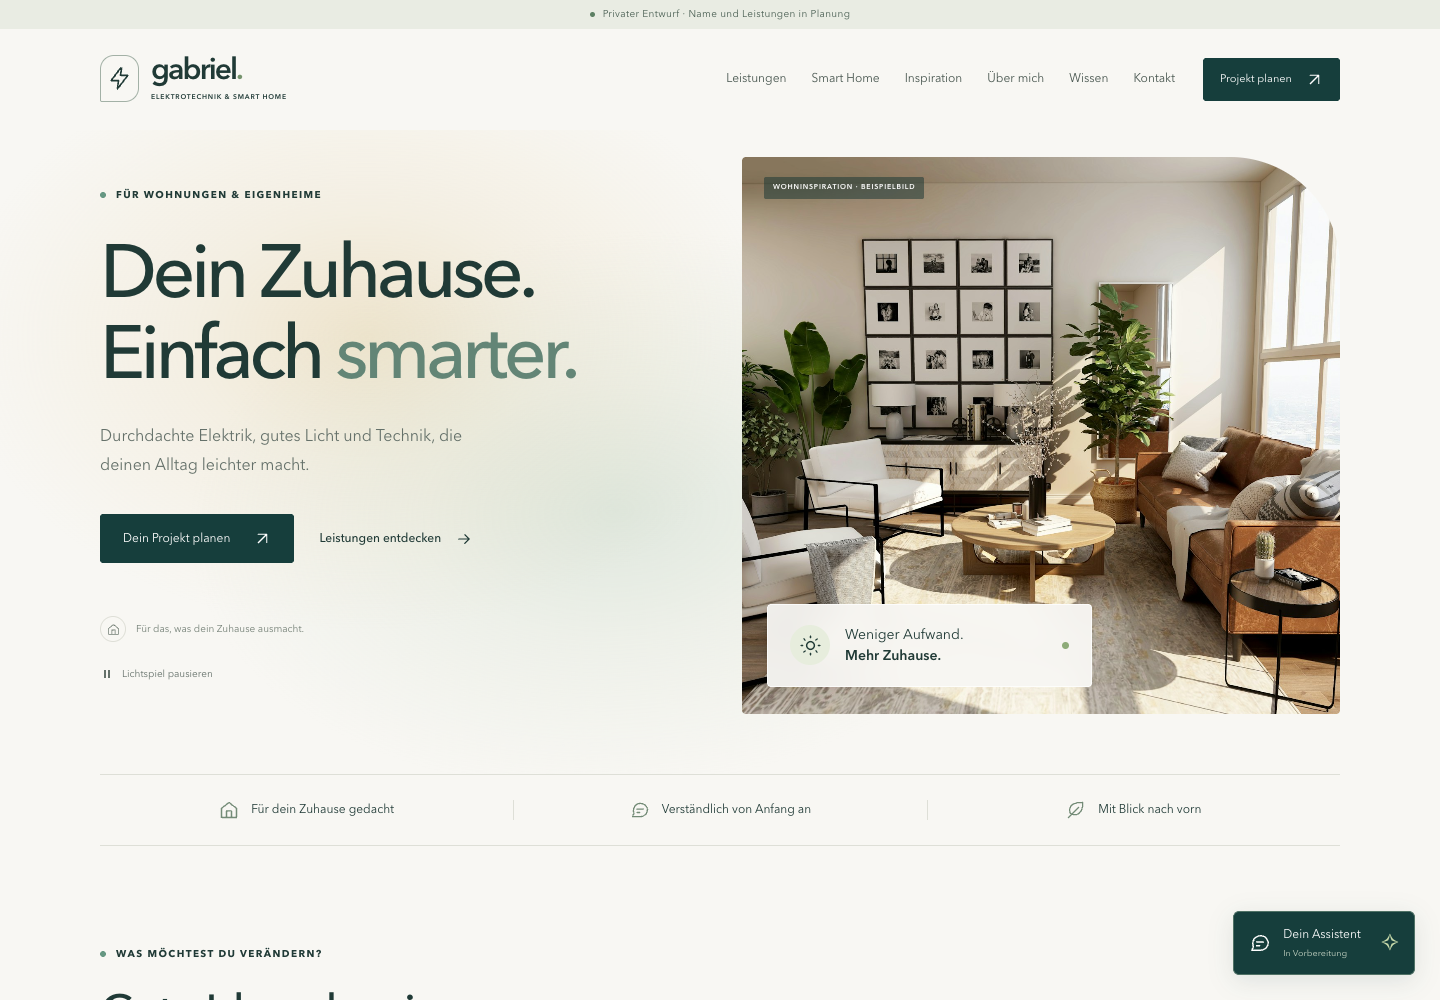
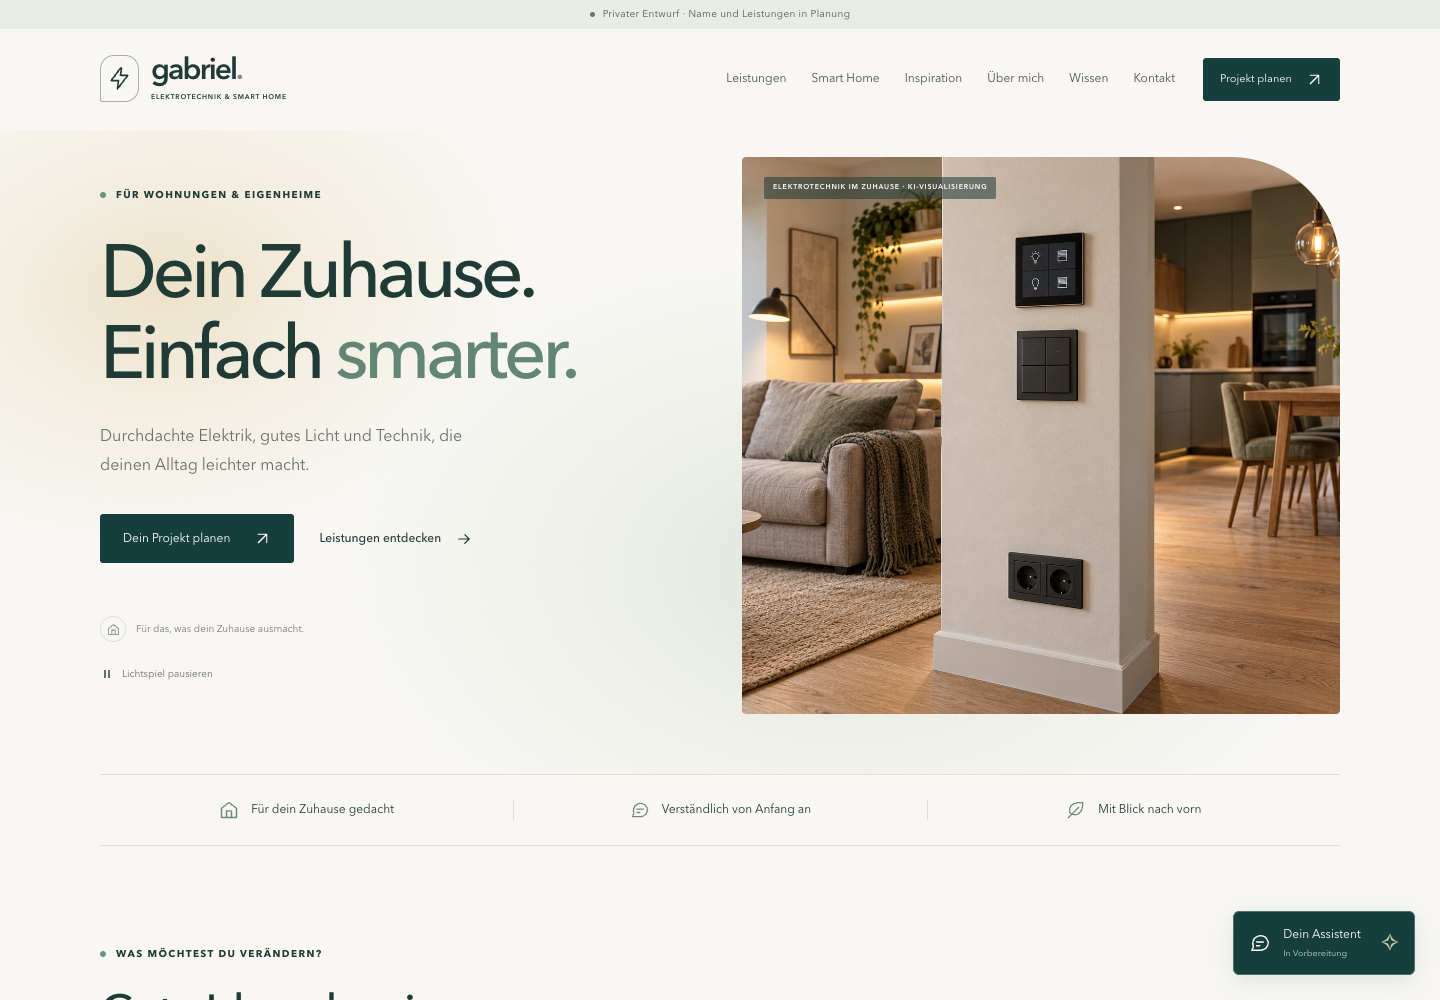
Startbild mit sichtbarer Elektrotechnik ersetzen und Licht leicht verstaerken

diff --git a/public/assets/smart-demos.css b/public/assets/smart-demos.css
@@ -7,11 +7,11 @@
     position: absolute;
     width: min(950px, 140vw);
     height: 620px;
-    background: radial-gradient(ellipse closest-side at 42% 46%, #d9bc7b52 0%, #e2cc9c30 43%, transparent 100%);
+    background: radial-gradient(ellipse closest-side at 42% 46%, #d9bc7b5c 0%, #e2cc9c36 43%, transparent 100%);
     top: -110px;
     left: -160px;
   }
-  .hero-glow::after { top: 65px; left: 12%; background: radial-gradient(ellipse closest-side at 48% 52%, #9bbca345 0%, #bbcfb82b 46%, transparent 100%); }
+  .hero-glow::after { top: 65px; left: 12%; background: radial-gradient(ellipse closest-side at 48% 52%, #9bbca34d 0%, #bbcfb830 46%, transparent 100%); }
   html.js .hero-glow::before { animation: hero-light-drift 16s ease-in-out infinite alternate; }
   html.js .hero-glow::after { animation: hero-light-drift 22s ease-in-out -8s infinite alternate-reverse; }
   .home-hero[data-ambience-paused="true"] .hero-glow::before,

diff --git a/docs/PROJEKTSTAND.md b/docs/PROJEKTSTAND.md
@@ -1,13 +1,22 @@
 # Projektstand
 
-Stand: 30.10.2026 · Lichtspiel sichtbar verstärkt
+Stand: 30.10.2026 · Neues Startbild mit sichtbarer Elektrotechnik
+
+## Aktuelle Überarbeitung
+
+- Gabriels Wunsch: Lichtstärke nur noch minimal anheben und das allgemeine Wohnraumfoto durch ein modernes Motiv mit erkennbarer Elektrotechnik ersetzen.
+- Neues Startbild mit dem eingebauten Imagegen-Werkzeug erstellt: Schuko-Doppelsteckdose, vierteiliger Wandtaster und Bedienpanel stehen gut sichtbar im Mittelpunkt. Eingeschaltete Leuchten sowie Küche mit Backofen ergänzen die Wohnatmosphäre. Datei: `public/assets/zuhause-elektrotechnik.jpg`; Originalpfad und vollständiger Prompt in [STARTBILD.md](STARTBILD.md).
+- Bild, Alternativtext, Preload und Bildnachweise angepasst; als KI-Visualisierung gekennzeichnet. Der bisherige Textkasten über dem Bild wurde entfernt, damit er keine Steckdosen verdeckt. Das alte Foto bleibt als ungenutzte Datei erhalten.
+- Nur die Intensität der beiden Hintergrund-Lichtflächen noch leicht angehoben. Tempo, Bewegungsweg und Pausenfunktionen bleiben erhalten.
+- Build und 509 interne Verweise erfolgreich. Vier passende Browserprüfungen bestanden: alle Seiten erreichbar, mobiles Layout und Navigation, Lichtspiel/Pause/reduzierte Bewegung sowie Darstellung ohne JavaScript. Desktop und Mobil visuell geprüft; alle drei elektrischen Bedienelemente bleiben im Bildausschnitt sichtbar.
+- Aktueller Arbeitsbranch: `feat/startbild-elektrotechnik`, aufbauend auf `2b06c13`. Nächster Schritt: das neue Bild und die leicht erhöhte Lichtstärke mit Gabriel ansehen.
 
 ## Aktuelle Feinabstimmung
 
 - Gabriels Wunsch: etwas mehr sichtbare Bewegung im Hintergrund. Das Startseiten-Lichtspiel hat jetzt deutlichere warme und salbeigrüne Lichtflächen, einen größeren Bewegungsweg sowie eine leichte Drehung und Größenänderung. Die Dauer je Richtung beträgt 16 und 22 Sekunden. Die Bewegung bleibt auf den Einstieg begrenzt.
 - Pausentaste, automatische Pause außerhalb des sichtbaren Bereichs und bei verborgenem Tab sowie reduzierte Bewegung bleiben erhalten.
 - Build und 509 interne Verweise sowie die beiden Lichtspiel-Browserprüfungen erfolgreich. Laufende Bewegung auf Desktop geprüft, Desktop und Mobil visuell kontrolliert; bei 320, 375 und 768 Pixeln kein horizontales Überlaufen. Startseiten-Vorschau aktualisiert.
-- Aktueller Arbeitsbranch: `style/lichtspiel-sichtbarer`, aufbauend auf `3cba83c`. Nächster Schritt: die Stärke und Bewegung des Lichtspiels mit Gabriel ansehen.
+- Mit `2b06c13` auf `style/lichtspiel-sichtbarer` gesichert, aufbauend auf `3cba83c`.
 
 ## Jalousien-Demo und erstes Lichtspiel
 
@@ -72,7 +81,7 @@ Die Website bleibt ein lokaler privater Entwurf. Veröffentlichung, kostenpflich
 - Über mich, Kontakt, Entwurfsseiten für Impressum und Datenschutz sowie Bildnachweise.
 - Assistenteneinstieg als ausdrücklich gekennzeichnete Vorschau, auf Mobilgeräten als kleines Symbol.
 - Keine großen wiederkehrenden Abschlussblöcke mit Projektaufruf. Planerzugänge oben rechts, auf der Startseite und auf der Kontaktseite bleiben erhalten. Auf der Inspirationsseite ist die Übernahme Bestandteil des Beraterergebnisses.
-- Alle zwölf KI-Motive sind Visualisierungen; sie weisen weder Kundenprojekte noch konkrete Produktkompatibilität nach.
+- Alle 13 KI-Motive sind Visualisierungen; sie weisen weder Kundenprojekte noch konkrete Produktkompatibilität nach.
 
 ## Technischer Einstieg
 
@@ -106,7 +115,7 @@ Fragen und Verhalten stehen in [INSPIRATIONSBERATER.md](INSPIRATIONSBERATER.md).
 
 ## Nächster gemeinsamer Schritt
 
-Beim Wiedereinstieg die Stärke und Bewegung des verstärkten Startseiten-Lichtspiels mit Gabriel ansehen und sein Feedback aufnehmen. Auch Jalousien-Demo und die sechs erweiterten Leistungsseiten können weiter verfeinert werden. Die reduzierte Lichtauswahl und die Abenddämmerung sind umgesetzt. Bei weiterer Smart-Home-Arbeit an `src/smart-home.mjs`, `src/room.mjs` und `src/shading.mjs` anknüpfen. Inspiration und Berater können bei Bedarf weiter verfeinert werden.
+Beim Wiedereinstieg das neue Startbild mit sichtbarer Elektrotechnik und die leicht erhöhte Lichtstärke mit Gabriel ansehen und sein Feedback aufnehmen. Auch Jalousien-Demo und die sechs erweiterten Leistungsseiten können weiter verfeinert werden. Die reduzierte Lichtauswahl und die Abenddämmerung sind umgesetzt. Bei weiterer Smart-Home-Arbeit an `src/smart-home.mjs`, `src/room.mjs` und `src/shading.mjs` anknüpfen. Inspiration und Berater können bei Bedarf weiter verfeinert werden.
 
 Gabriels ergänzende Idee ist festgehalten: Wiederkehrende Fragen aus dem späteren echten Chatbot sollen als „Top-Fragen“ mit kurzen Antworten beim Berater ergänzt werden. Fehlt für die Beratung regelmäßig eine Angabe, kann auch der Fragenablauf gezielt erweitert werden. Es werden dafür jetzt keine häufigen Kundenfragen behauptet. Die spätere Auswertung und Übernahme sind noch nicht implementiert.
 
@@ -116,7 +125,7 @@ Danach bleiben Firmenname, Einsatzgebiet, tatsächlicher Leistungsumfang, echte 
 
 Privates Repository: https://github.com/Gabrielysf31/meine-website
 
-Die erste Website-Umsetzung liegt auf `feat/erster-website-entwurf` bis Commit `b73bed2`. Die konkrete Konzeptausarbeitung wurde auf `docs/inspirationsberater-konzept` mit Commit `82b6863` gesichert. Inspiration und Berater wurden mit Commit `a33994a` auf `feat/inspiration-berater` gesichert. Darauf bauen Smart Home (`8ddc091`), Lichtsimulation (`a7aeeec`), Tageslicht (`e6a6a90`), die zwischenzeitliche rote Lichtfarbe (`630896b`) und die endgültige reduzierte Auswahl (`e4ad57b`) auf. Der Abschluss vom 29.10. liegt mit Commit `066b7fb` auf `feat/smart-home-ruhige-lichtstimmungen`. Die Abenddämmerung wurde mit `9108999` auf `fix/smart-home-abenddaemmerung` gesichert. Die ausgearbeiteten Leistungsseiten liegen mit `75dc264` auf `feat/leistungen-ausfuehrlich`. Jalousien-Demo und erstes Lichtspiel sind mit `3cba83c` auf `feat/jalousien-demo-lichtspiel` gesichert. Der aktuelle, vollständige Arbeitsstand mit verstärktem Lichtspiel liegt auf `style/lichtspiel-sichtbarer`. `main` enthält weiterhin die ursprüngliche Repository-Initialisierung; es wurde nichts in `main` integriert oder als Website veröffentlicht.
+Die erste Website-Umsetzung liegt auf `feat/erster-website-entwurf` bis Commit `b73bed2`. Die konkrete Konzeptausarbeitung wurde auf `docs/inspirationsberater-konzept` mit Commit `82b6863` gesichert. Inspiration und Berater wurden mit Commit `a33994a` auf `feat/inspiration-berater` gesichert. Darauf bauen Smart Home (`8ddc091`), Lichtsimulation (`a7aeeec`), Tageslicht (`e6a6a90`), die zwischenzeitliche rote Lichtfarbe (`630896b`) und die endgültige reduzierte Auswahl (`e4ad57b`) auf. Der Abschluss vom 29.10. liegt mit Commit `066b7fb` auf `feat/smart-home-ruhige-lichtstimmungen`. Die Abenddämmerung wurde mit `9108999` auf `fix/smart-home-abenddaemmerung` gesichert. Die ausgearbeiteten Leistungsseiten liegen mit `75dc264` auf `feat/leistungen-ausfuehrlich`. Jalousien-Demo und erstes Lichtspiel sind mit `3cba83c` auf `feat/jalousien-demo-lichtspiel` gesichert. Das verstärkte Lichtspiel ist mit `2b06c13` auf `style/lichtspiel-sichtbarer` gesichert. Der aktuelle, vollständige Arbeitsstand mit neuem Startbild und nochmals leicht angehobener Lichtstärke liegt auf `feat/startbild-elektrotechnik`. `main` enthält weiterhin die ursprüngliche Repository-Initialisierung; es wurde nichts in `main` integriert oder als Website veröffentlicht.
 
 Die von Gabriel geöffnete lokale Vorschau unter `http://localhost:4173` wurde wiederverwendet und während der Umsetzung aktualisiert. Falls sie nicht läuft: `npm run dev`. Nach weiteren Änderungen `npm run build` ausführen und den Browser neu laden.
 

diff --git a/docs/STARTBILD.md b/docs/STARTBILD.md
@@ -1,0 +1,27 @@
+# Startbild: Elektrotechnik im Zuhause
+
+Erstellt am 30.10.2026 mit dem eingebauten Imagegen-Werkzeug, ohne CLI/API-Fallback.
+
+Gabriels Wunsch: Die moderne Wohnatmosphäre beibehalten und im Startbild klar sichtbare Elektrotechnik zeigen. Der bisherige Wohnraum wirkte zu allgemein. Zusätzlich wurde die Hintergrund-Lichtstärke geringfügig angehoben.
+
+## Dateien und Einbau
+
+- Website: `public/assets/zuhause-elektrotechnik.jpg`, 1448 × 1086 Pixel, als JPEG komprimiert.
+- Original: `/Users/gabrielyousef/.codex/generated_images/01a18c97-9c4b-73d1-b7fd-299f35ae48a2/exec-e7f73a05-667d-4653-8fe1-67c7e773e34b.png`. Das Original bleibt erhalten.
+- Verwendung: Startseite, inklusive passendem Preload, Alternativtext und Kennzeichnung „Elektrotechnik im Zuhause · KI-Visualisierung“.
+- Sichtbare Motive: Schuko-Doppelsteckdose, vierteiliger Wandtaster, kompaktes Bedienpanel, eingeschaltete Leuchten, angrenzende Küche mit Backofen.
+- Der bisherige Textkasten über dem Foto wurde entfernt, damit die Steckdosen im unteren Bildbereich auch auf Mobil sichtbar bleiben.
+- Das frühere Startbild `public/assets/wohnraum.jpg` bleibt als ungenutzte Datei erhalten.
+- Illustratives Motiv, kein Kundenprojekt oder Nachweis einer konkreten Produktkompatibilität.
+
+## Vollständiger Prompt
+
+```text
+Use case: photorealistic-natural.
+Asset type: homepage hero photograph for a German residential electrician and smart home website, landscape 4:3 composition, high quality.
+Primary request: an attractive contemporary lived-in home in which installed electrical technology is clearly recognizable even at website thumbnail size. This must feel like a beautiful home with thoughtfully installed electrics.
+Scene: calm modern European living and dining room, warm oak floor, cream plaster, muted sage fabrics, comfortable sofa and simple timber console, daylight with visibly switched-on pendant and indirect LED shelf lighting. A compact kitchen in the background may show a real built-in oven.
+Main subject and composition: eye-level architectural editorial photograph, medium-wide view. In the CENTRAL part of the composition is a substantial cream wall pier next to the living room opening, in sharp focus and large enough to clearly see a realistic dark four-button wall keypad at normal switch height, and above it a compact wall-mounted smart home touch panel with a restrained simple light/blind icon interface, no letters or numbers. Lower on the same unobstructed wall, at normal low socket height, clearly show a matching dark two-gang European Schuko socket plate with two realistically recessed round sockets and two holes per socket. Keep the sockets, keypad, and panel all within the central 55 percent of the image, with the sockets above the lowest 20 percent, so all three remain visible in a near-square crop. Show enough of the room on both sides for architectural depth; a switched-on reading lamp and its neatly connected short power cord can reinforce the electrical theme. The wall controls and sockets are deliberately important visual subjects, not tiny details lost in a furniture catalogue shot.
+Style: natural premium architectural photography, believable scale and installation, straight verticals, realistic textures and restrained warm-neutral exposure. Electrical fittings look installed flush and proportional.
+Constraints: no people, no brand names, no watermark, no text, no floating devices, no exposed conductors, no science-fiction technology, no excessive gadget clutter, no generic living room with hidden electrics. Do not put any text overlay in the photograph.
+```

diff --git a/README.md b/README.md
@@ -14,6 +14,7 @@ Website für Gabriels mögliche spätere Selbstständigkeit im Bereich Elektrote
 Der erste lokale Entwurf ist umgesetzt: helle Gestaltung mit Petrol, echte Unterseiten, mobile Navigation und kurze Inhalte für Privatkunden.
 
 - Startseite, Leistungsübersicht und sechs Leistungsunterseiten: Neubau, Modernisierung, Licht, Smart Home, Photovoltaik sowie Energie und Laden.
+- Neues Startbild mit deutlich sichtbaren Steckdosen, Wandtaster und Smart-Home-Bedienpanel, ergänzt durch eingeschaltete Leuchten und eine angrenzende Küche. Als KI-Visualisierung gekennzeichnet; Bild und vollständiger Prompt stehen in [docs/STARTBILD.md](docs/STARTBILD.md).
 - Alle sechs Leistungsseiten mit ausgeschriebenem Navigationspfad „Leistungen / Leistungsname“, drei ausführlichen Themenabschnitten, Sprunglinks und insgesamt 18 erklärenden Vektorskizzen. Dazu gehören ein markierter Beispielgrundriss, eine schematische Verteilung, Lichtbereiche und Energieübersichten.
 - Erweiterte Smart-Home-Seite mit eigenen Bildern, Funktionsübersicht, Bedienung, Einstieg im Bestand oder Neubau, fünf Antworten und Assistentenhinweis. Drei interaktive Alltagssituationen steuern eine illustrierte Raumansicht mit zwei Lampen. Warm, gedimmt und Aus lassen sich zusätzlich direkt ausprobieren.
 - Darunter eine Jalousien-Demo mit drei Räumen und Beispiel-App: einzeln öffnen, halb schließen oder schließen sowie alle gemeinsam öffnen und schließen. Fenster, Raumhelligkeit und angezeigte Zustände ändern sich zusammen. Auf Mobil bleibt die Fensteransicht beim Bedienen sichtbar.
@@ -81,7 +82,7 @@ Die großen wiederkehrenden Projektaufrufe wurden auf Gabriels Wunsch entfernt. 
 
 ## Nächster Schritt
 
-Die Jalousien-Demo und das dezente Startseiten-Lichtspiel gemeinsam ansehen und Gabriels Feedback aufnehmen. Verhalten und Dateien stehen in [docs/SMART-HOME-DEMO.md](docs/SMART-HOME-DEMO.md). Auch die sechs erweiterten Leistungsseiten können weiter verfeinert werden; Aufbau und Inhalte stehen in [docs/LEISTUNGEN.md](docs/LEISTUNGEN.md). Inspiration, Berater und bearbeitbare Planerübergabe sind lokal umgesetzt; der Planer öffnet direkt unter dem Ergebnis. Beim Neuladen oder Verlassen werden die Angaben zurückgesetzt; es gibt keine Browser-Speicherung und keinen Versand.
+Das neue Startbild mit erkennbarer Elektrotechnik und die leicht erhöhte Lichtstärke gemeinsam ansehen und Gabriels Feedback aufnehmen. Jalousien-Demo und Lichtspiel sind in [docs/SMART-HOME-DEMO.md](docs/SMART-HOME-DEMO.md) dokumentiert. Auch die sechs erweiterten Leistungsseiten können weiter verfeinert werden; Aufbau und Inhalte stehen in [docs/LEISTUNGEN.md](docs/LEISTUNGEN.md). Inspiration, Berater und bearbeitbare Planerübergabe sind lokal umgesetzt; der Planer öffnet direkt unter dem Ergebnis. Beim Neuladen oder Verlassen werden die Angaben zurückgesetzt; es gibt keine Browser-Speicherung und keinen Versand.
 
 Der konkrete Wiedereinstieg und die Abgrenzung zwischen bestehender Umsetzung und besprochenem Konzept stehen in [docs/PROJEKTSTAND.md](docs/PROJEKTSTAND.md).
 

diff --git a/docs/BILDQUELLEN.md b/docs/BILDQUELLEN.md
@@ -8,7 +8,11 @@ Sechs Technikmotive wurden mit dem eingebauten Imagegen-Werkzeug erstellt: einge
 
 ## Eigene Inspirationsmotive
 
-Vier weitere eigenständige Inspirationsmotive wurden mit dem eingebauten Imagegen-Werkzeug erstellt: nächtliches Orientierungslicht, Schlafzimmer im Morgenlicht, Arbeits- und Leseecke sowie ein Energieüberblick im Hauswirtschaftsraum. Sie liegen als `public/assets/inspiration-*.jpg` vor. Alle Dateipfade und Prompts stehen in [INSPIRATION-BILDPROMPTS.md](INSPIRATION-BILDPROMPTS.md). Zwei weitere eigene Motive für die Smart-Home-Seite zeigen einen vernetzten Küchen-/Essbereich und die Bedienung am Wandtaster. Dateien und Prompts stehen in [SMART-HOME-BILDER.md](SMART-HOME-BILDER.md). Insgesamt verwendet der Entwurf zwölf gekennzeichnete KI-Visualisierungen.
+Vier weitere eigenständige Inspirationsmotive wurden mit dem eingebauten Imagegen-Werkzeug erstellt: nächtliches Orientierungslicht, Schlafzimmer im Morgenlicht, Arbeits- und Leseecke sowie ein Energieüberblick im Hauswirtschaftsraum. Sie liegen als `public/assets/inspiration-*.jpg` vor. Alle Dateipfade und Prompts stehen in [INSPIRATION-BILDPROMPTS.md](INSPIRATION-BILDPROMPTS.md). Zwei weitere eigene Motive für die Smart-Home-Seite zeigen einen vernetzten Küchen-/Essbereich und die Bedienung am Wandtaster. Dateien und Prompts stehen in [SMART-HOME-BILDER.md](SMART-HOME-BILDER.md). Mit dem neuen Startbild verwendet der Entwurf 13 gekennzeichnete KI-Visualisierungen.
+
+## Startbild: Elektrotechnik im Zuhause
+
+Am 30.10.2026 mit dem eingebauten Imagegen-Werkzeug erstellt. `public/assets/zuhause-elektrotechnik.jpg` zeigt einen modernen Wohnraum mit gut sichtbaren Schuko-Steckdosen, Wandtaster, Bedienpanel und eingeschalteter Beleuchtung. Das Bild ersetzt den bisherigen Wohnraum auf der Startseite. Es ist als KI-Visualisierung gekennzeichnet und zeigt kein Kundenprojekt oder konkretes Produktsystem. Originalpfad und vollständiger Prompt stehen in [STARTBILD.md](STARTBILD.md).
 
 ## Wohnraumfotos
 
@@ -17,7 +21,7 @@ Vier weitere eigenständige Inspirationsmotive wurden mit dem eingebauten Imageg
 | `public/assets/wohnraum.jpg`      | https://images.unsplash.com/photo-1600210492486-724fe5c67fb0 |
 | `public/assets/wohnen-detail.jpg` | https://images.unsplash.com/photo-1600607687920-4e2a09cf159d |
 
-Bezug am 29.10.2026 über Unsplash mit verkleinerten Bildabmessungen. Die Quellen sind zusätzlich auf der Website unter `/bildnachweise/` verlinkt. Unsplash-Lizenz: https://unsplash.com/license
+Bezug am 29.10.2026 über Unsplash mit verkleinerten Bildabmessungen. `wohnraum.jpg` ist das frühere Startbild und bleibt als ungenutzte Datei erhalten; auf der Startseite wird jetzt das neue Technikmotiv verwendet. Die Bildnachweise der Website wurden entsprechend angepasst. Unsplash-Lizenz: https://unsplash.com/license
 
 Logozeichen, Favicon und Funktionssymbole sind im Projekt als SVG umgesetzt. Die Schriftgestaltung verwendet lokal vorhandene Systemschriften.
 

diff --git a/docs/SMART-HOME-DEMO.md b/docs/SMART-HOME-DEMO.md
@@ -19,6 +19,7 @@ Gabriel hat die Kombination aus ruhiger Hintergrundbewegung und einer zweiten Sm
 ## Lichtspiel
 
 - Nur im Hintergrund des Einstiegs auf der Startseite: zwei weiche Flächen in warmen und salbeigrünen Tönen. Auf Gabriels Wunsch deutlicher sichtbar, mit stärkerem Farbverlauf und größerem Bewegungsweg.
+- Nach weiterem Feedback wurde nur die Lichtstärke noch leicht angehoben; Tempo und Bewegungsweg bleiben erhalten.
 - Ruhige CSS-Bewegung über 16 beziehungsweise 22 Sekunden je Richtung, mit leichter Drehung und Größenänderung. Der Bewegungsweg passt sich der Bildschirmbreite an. Texte und Bild bewegen sich nicht.
 - „Lichtspiel pausieren“ hält die Bewegung an derselben Stelle an; „Lichtspiel fortsetzen“ lässt sie weiterlaufen.
 - Automatische Pause außerhalb des sichtbaren Bereichs und bei verborgenem Browser-Tab.
